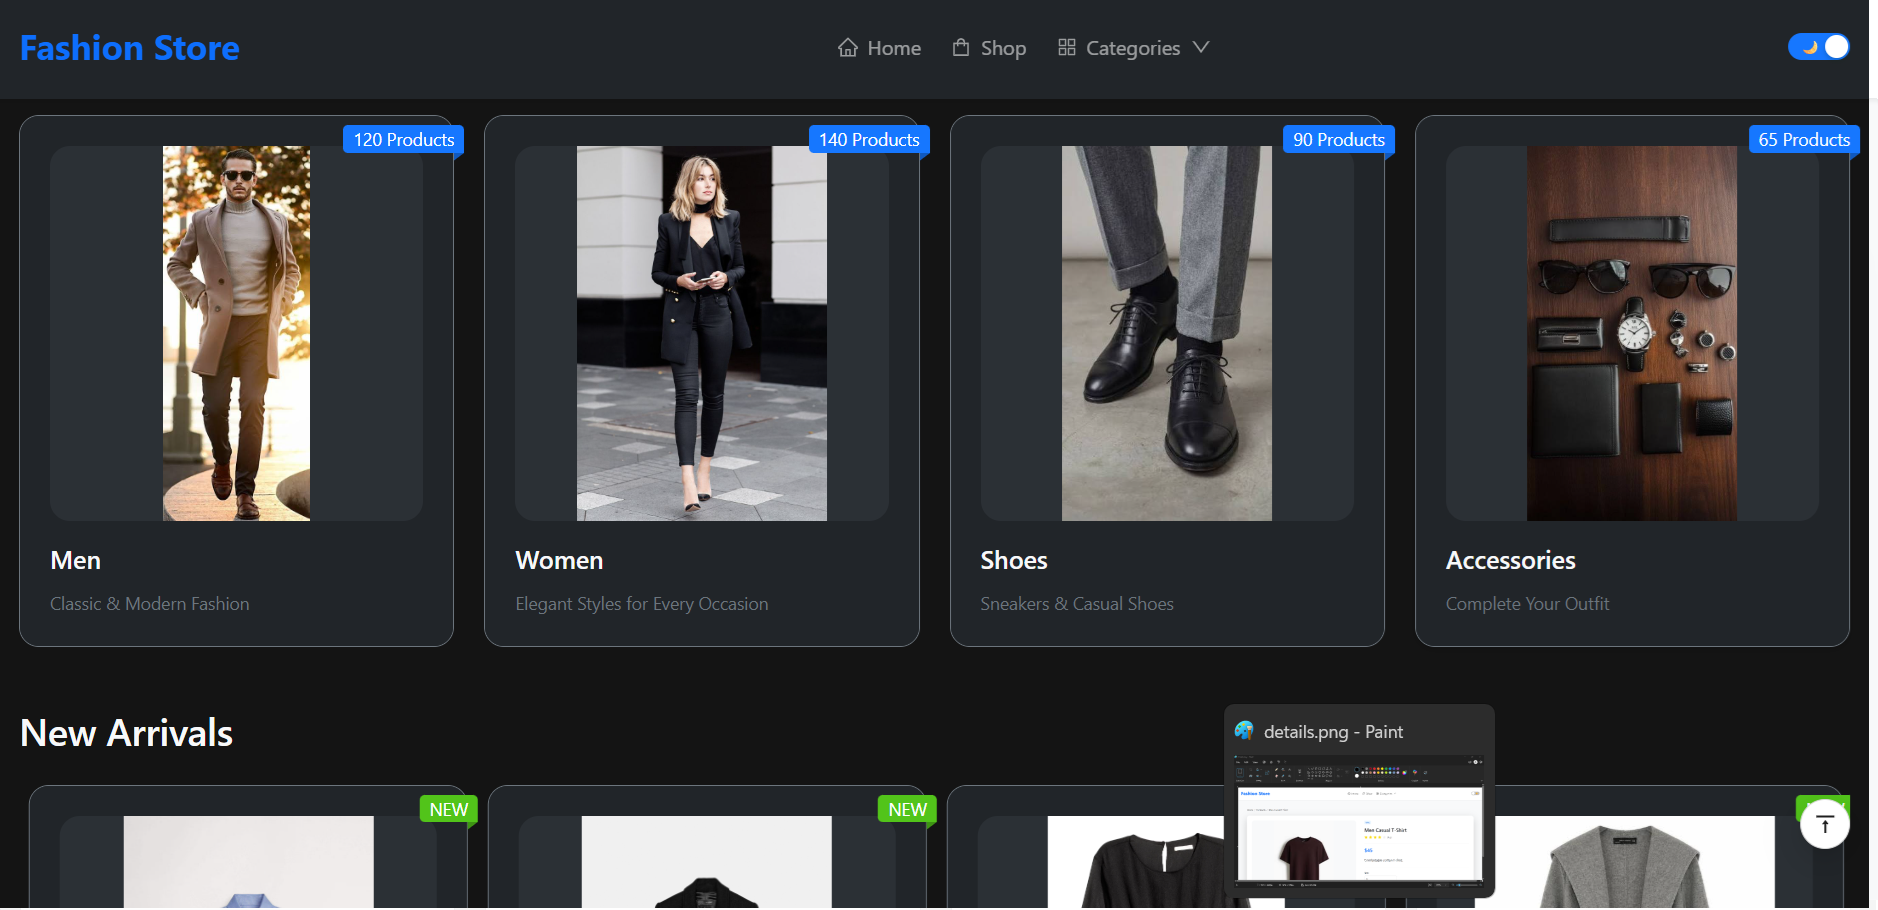
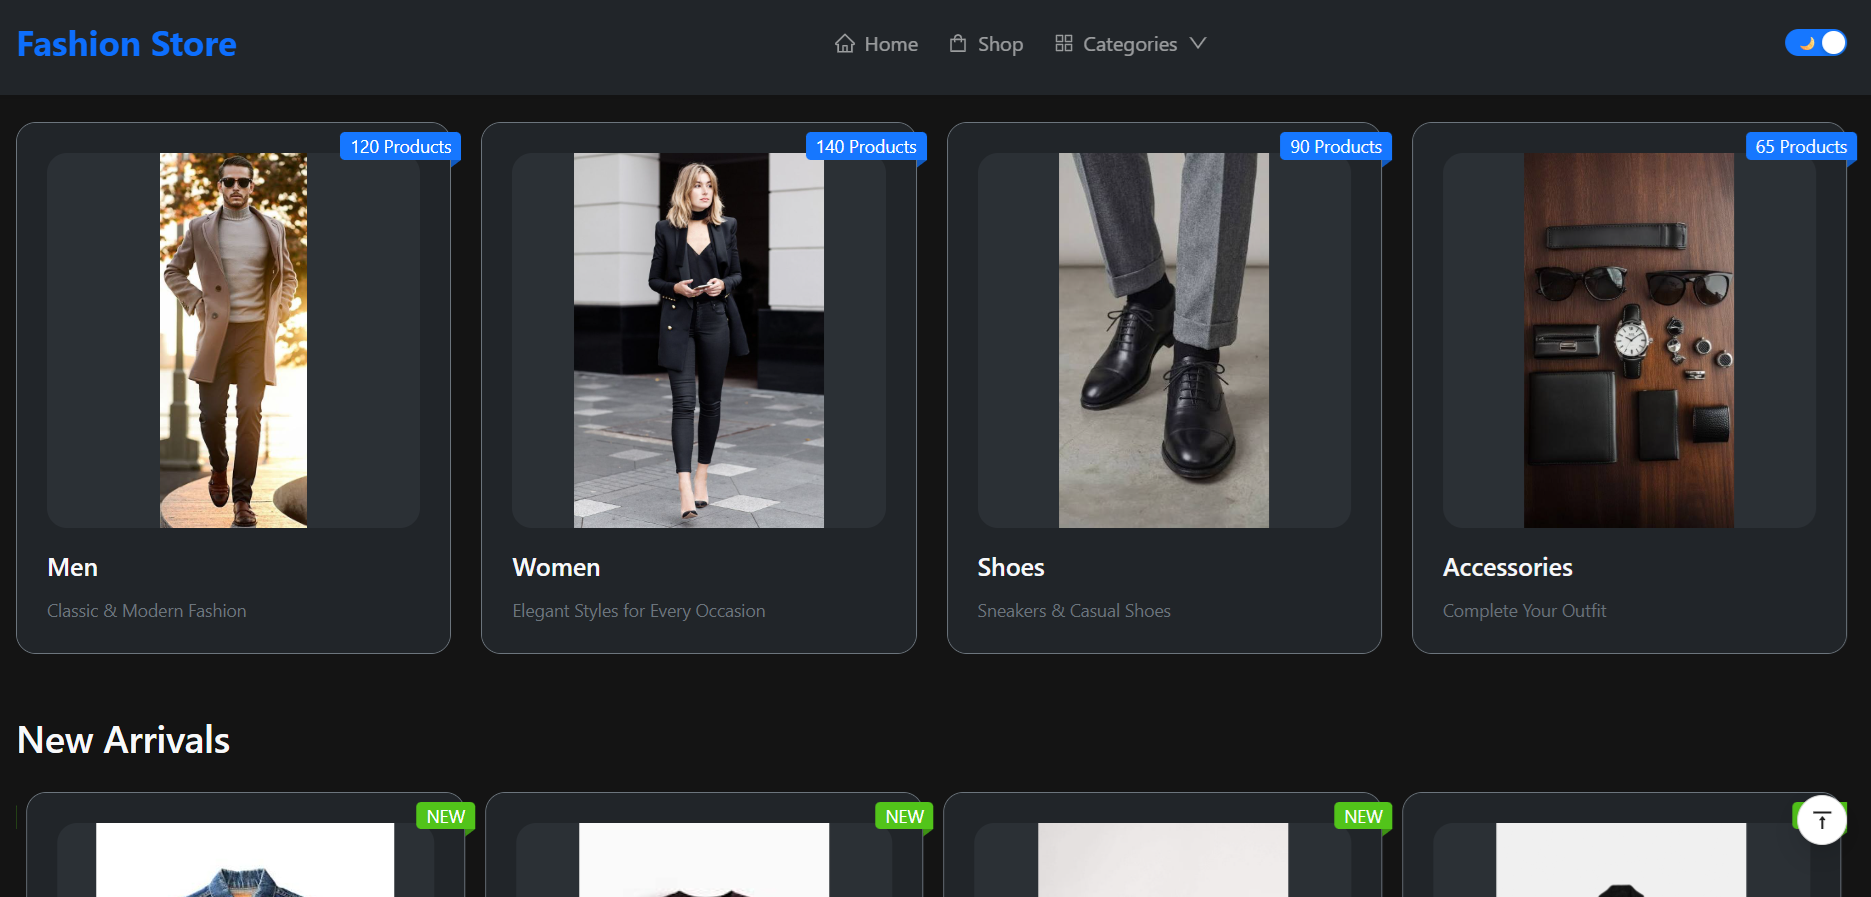
final edits

diff --git a/README.md b/README.md
@@ -1,18 +1,287 @@
-# React + Vite
 
-This template provides a minimal setup to get React working in Vite with HMR and some ESLint rules.
+# 🛍 Fashion Store
 
-Currently, two official plugins are available:
+A modern and responsive e-commerce frontend built with **React + Vite**.
 
-- [@vitejs/plugin-react](https://github.com/vitejs/vite-plugin-react/blob/main/packages/plugin-react) uses [Oxc](https://oxc.rs)
-- [@vitejs/plugin-react-swc](https://github.com/vitejs/vite-plugin-react/blob/main/packages/plugin-react-swc) uses [SWC](https://swc.rs/)
+Fashion Store is a stylish online shopping interface that allows users to browse products, search, filter items, view product details, and switch between dark and light themes.
 
-## React Compiler
+---
 
-The React Compiler is enabled on this template. See [this documentation](https://react.dev/learn/react-compiler) for more information.
+## 🌐 Live Demo
 
-Note: This will impact Vite dev & build performances.
+🚀 Check out the live version:
 
-## Expanding the ESLint configuration
+https://fashion-store-react-bootstrap-ant-d-vert.vercel.app/
 
-If you are developing a production application, we recommend using TypeScript with type-aware lint rules enabled. Check out the [TS template](https://github.com/vitejs/vite/tree/main/packages/create-vite/template-react-ts) for information on how to integrate TypeScript and [`typescript-eslint`](https://typescript-eslint.io) in your project.
+---
+
+## 📸 Preview
+
+### Home Page
+
+![Home Page](./screenshots/home.png)
+
+
+### Products Page
+
+![Products Page](./screenshots/products.png)
+
+
+### Product Details
+
+![Product Details](./screenshots/details.png)
+
+
+### Dark Mode
+
+![Dark Mode](./screenshots/dark-mode.png)
+
+---
+
+## ✨ Features
+
+- ✅ Modern and responsive UI
+- ✅ React + Vite architecture
+- ✅ Dark / Light theme
+- ✅ Product listing
+- ✅ Product search
+- ✅ Advanced filtering:
+  - Category
+  - Brand
+  - Price range
+  - Rating
+- ✅ Product details page
+- ✅ Related products section
+- ✅ Product carousel
+- ✅ Newsletter subscription
+- ✅ Smooth scroll navigation
+- ✅ Responsive navigation bar
+- ✅ Mobile friendly layout
+
+---
+
+## 🛠 Technologies
+
+### Frontend
+
+- React.js
+- Vite
+- JavaScript (ES6+)
+- React Router DOM
+
+### UI & Styling
+
+- Ant Design
+- Bootstrap
+- CSS3
+
+### Tools
+
+- Git
+- GitHub
+- VS Code
+
+---
+
+## 📦 Main Libraries
+
+### Ant Design
+
+Used for:
+
+- Cards
+- Buttons
+- Inputs
+- Tabs
+- Dropdowns
+- Switch
+- Rating
+- Layout components
+
+
+### Bootstrap
+
+Used for:
+
+- Responsive grid system
+- Utility classes
+- Spacing
+- Layout design
+
+
+### React Router DOM
+
+Used for:
+
+- Page navigation
+- Product details routing
+- Dynamic routes
+
+---
+
+## 🚀 Installation
+
+Clone the repository:
+
+```bash
+git clone https://github.com/your-username/fashion-store.git
+````
+
+Go to project folder:
+
+```bash
+cd fashion-store
+```
+
+Install dependencies:
+
+```bash
+npm install
+```
+
+Run development server:
+
+```bash
+npm run dev
+```
+
+Open:
+
+```text
+http://localhost:5173
+```
+
+---
+
+## 📁 Project Structure
+
+```text
+src
+│
+├── assets
+│
+├── components
+│   ├── Navbar.jsx
+│   ├── Footer.jsx
+│   ├── Hero.jsx
+│   ├── ProductCard.jsx
+│   ├── ProductCarousel.jsx
+│   ├── ProductFilter.jsx
+│   ├── ProductTabs.jsx
+│   ├── RelatedProducts.jsx
+│   ├── SearchBar.jsx
+│   ├── Newsletter.jsx
+│   └── ScrollToTop.jsx
+│
+├── pages
+│   ├── Home.jsx
+│   ├── Products.jsx
+│   ├── ProductDetails.jsx
+│   └── NotFound.jsx
+│
+├── data
+│   └── products.js
+│
+├── App.jsx
+└── main.jsx
+```
+
+---
+
+# 📄 Pages
+
+## 🏠 Home Page
+
+Includes:
+
+* Hero section
+* Categories
+* New arrivals
+* Best sellers
+* Sale products
+* Brand section
+* Newsletter
+
+---
+
+## 🛒 Shop Page
+
+Features:
+
+* Product grid
+* Search bar
+* Category filter
+* Brand filter
+* Price filter
+* Rating filter
+* Responsive product cards
+
+---
+
+## 📦 Product Details Page
+
+Includes:
+
+* Product image
+* Product information
+* Price
+* Rating
+* Description
+* Specifications
+* Reviews
+* Related products
+
+---
+
+## 🎨 Theme System
+
+The application supports:
+
+☀ Light Mode
+
+🌙 Dark Mode
+
+Theme switching is implemented globally using:
+
+* React State
+* Ant Design ConfigProvider
+
+---
+
+## 📱 Responsive Design
+
+The project is optimized for:
+
+* Desktop
+* Tablet
+* Mobile
+
+The layout automatically adapts to different screen sizes.
+
+---
+
+## 🔮 Future Improvements
+
+* 🛒 Shopping cart
+* ❤ Wishlist
+* 🔐 User authentication
+* 💳 Payment integration
+* 🔗 Backend API connection
+* 📦 Order management
+* ⭐ Product reviews system
+
+---
+
+## 👨💻 Author
+
+**Mohammad Jm**
+
+Frontend Developer
+
+---
+
+## ⭐ Support
+
+If you like this project, please consider giving it a ⭐ on GitHub.
+
+
